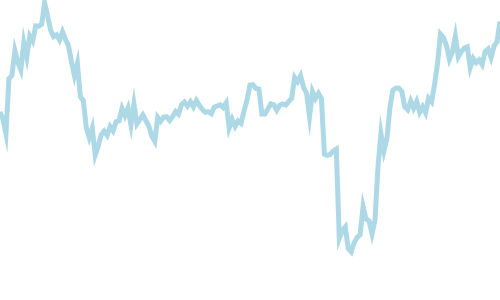
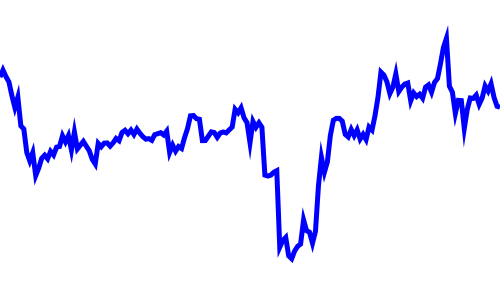
updated chart color

Changed region(s): [[0.0, 0.0, 1.0, 0.87]]

diff --git a/pages/index.tsx b/pages/index.tsx
@@ -86,7 +86,7 @@ export const getStaticProps: any = async () => {
         labels: index,
         datasets: [
           {
-            borderColor: ["#add8e6"],
+            borderColor: ["#0000ff"],
             data: data,
             fill: false,
             borderWidth: 5,
